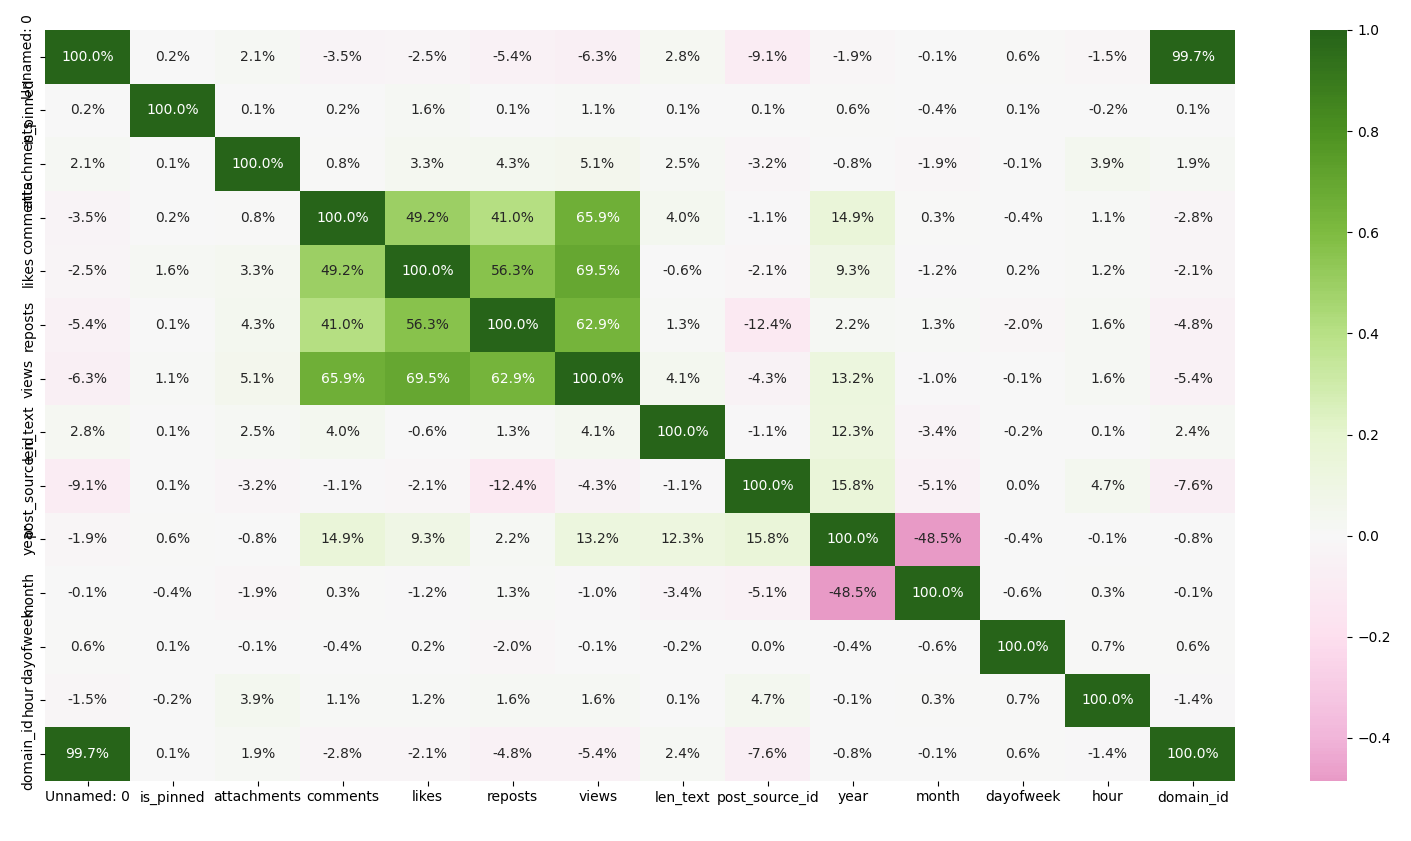
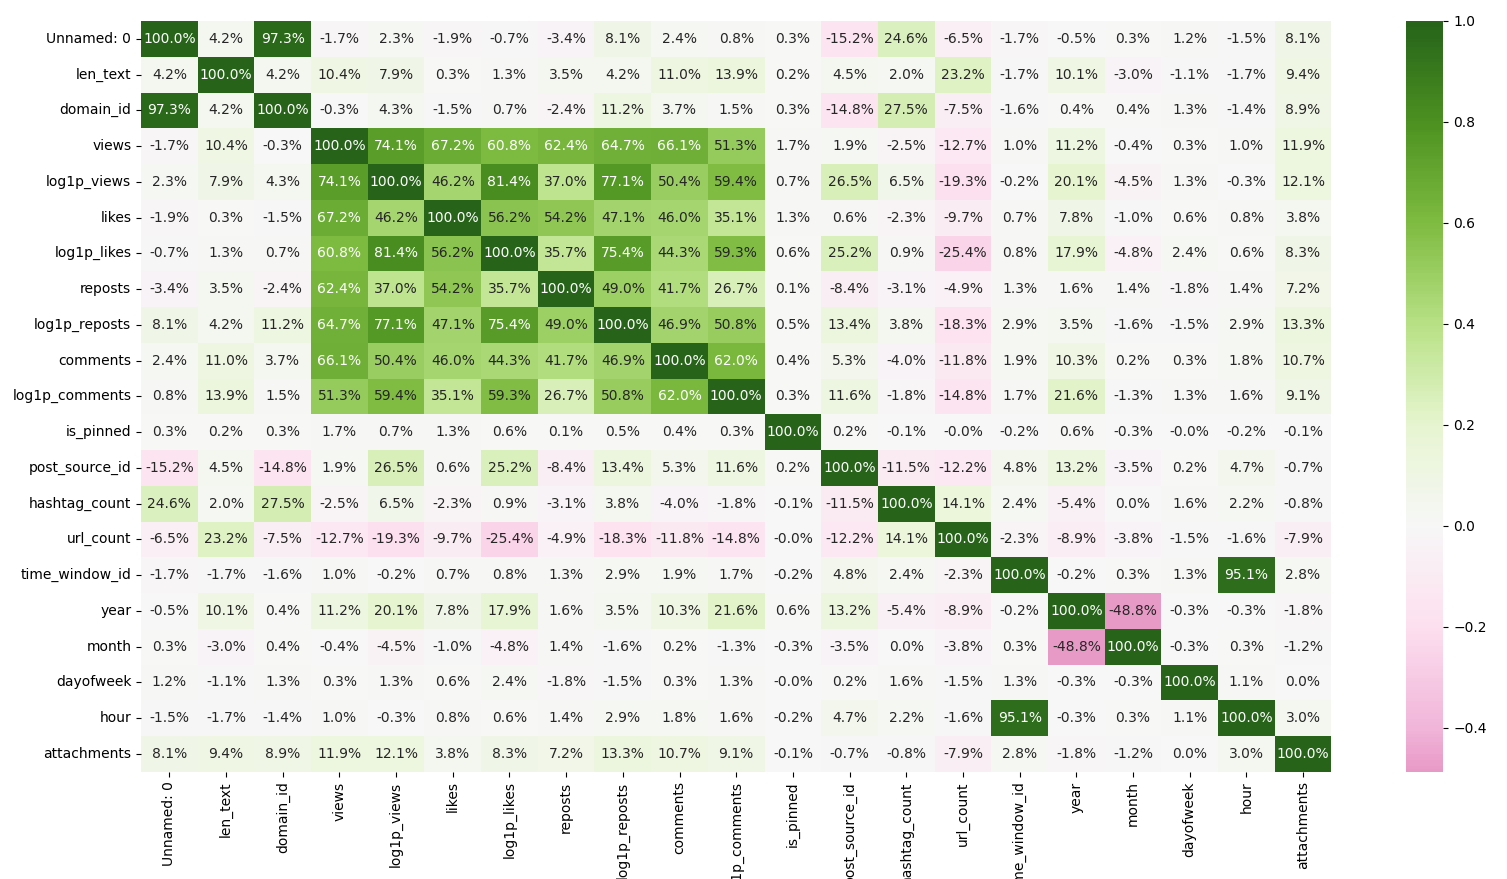
small changes in correlation

diff --git a/correlation.py b/correlation.py
@@ -4,13 +4,10 @@ import seaborn as sns
 
 
 def run():
-    df = pd.read_csv("data/1_try/dataset.csv")
-    df = df.drop(df[df.domain != 'rentvchannel'].index)
-    domains = df.domain.unique()
-    domains_dict = dict(zip(domains, range(len(domains))))
-    df['domain_id'] = df.domain.map(domains_dict)
-    plt.figure(figsize=(21, 21))
+    df = pd.read_csv("data/dataset_united_extended.csv")
+    plt.figure(figsize=(30, 30))
     sns.heatmap(df.corr(), center=0, annot=True, fmt='.1%', cmap="PiYG")
+    plt.yticks(rotation=0)
     plt.show()
 
 

diff --git a/README.md b/README.md
@@ -4,11 +4,5 @@ get access token at: https://vkhost.github.io/
 
 get datasets: https://drive.google.com/drive/folders/1NCItuAtPpqCRZrYjYXU4TdLvWyUQm26t?usp=sharing
 
-Correlation (without rentvchannel):
-
-![img.png](img/img.png)
-
-only in RIA:
-
-![img_1.png](img/img_1.png)
-
+overall correlation:
+![img.png](img.png)
